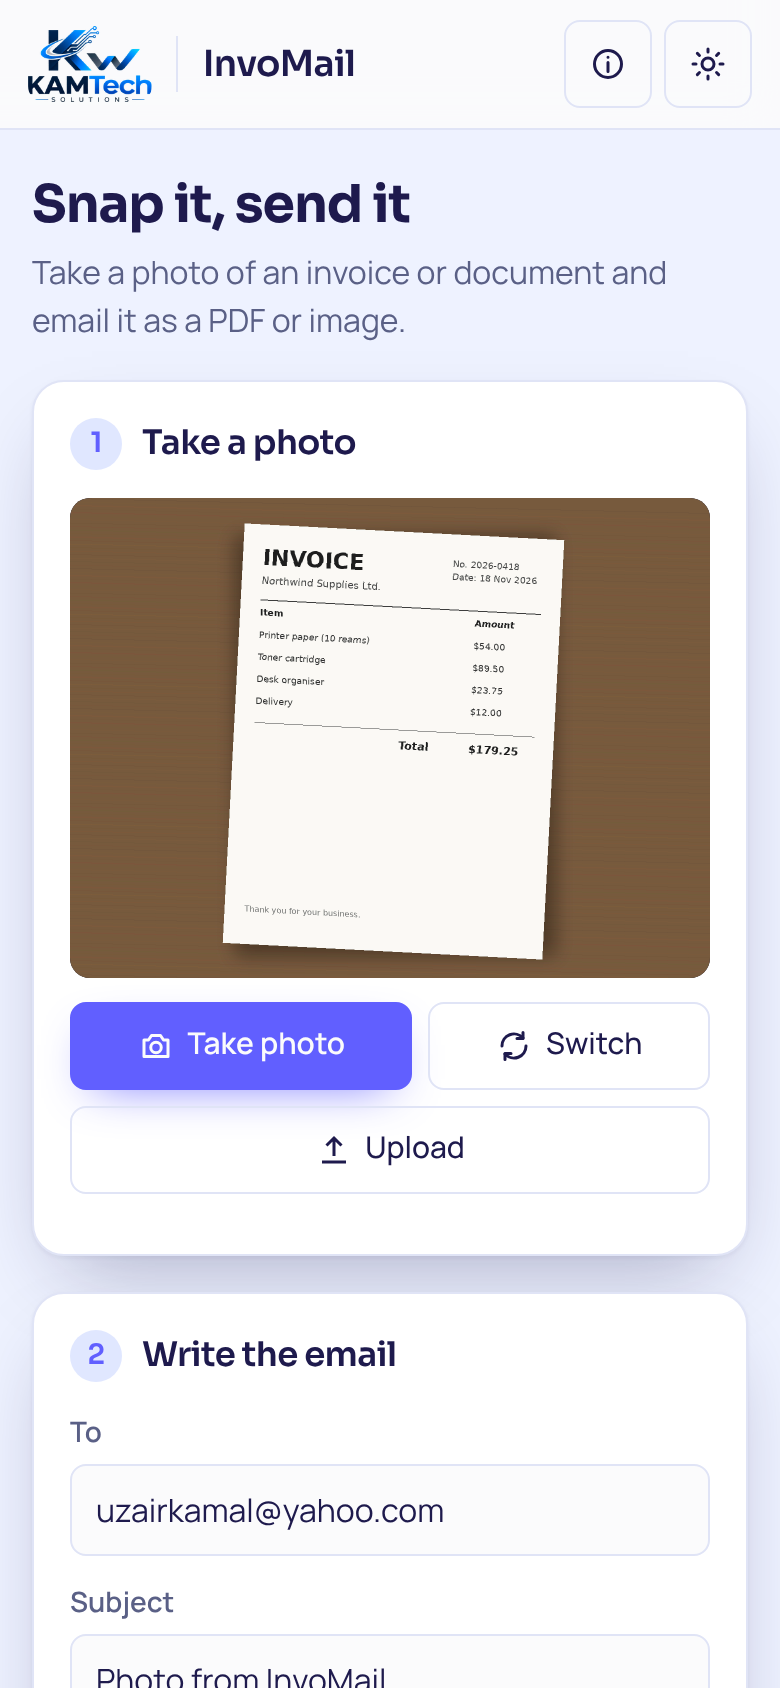
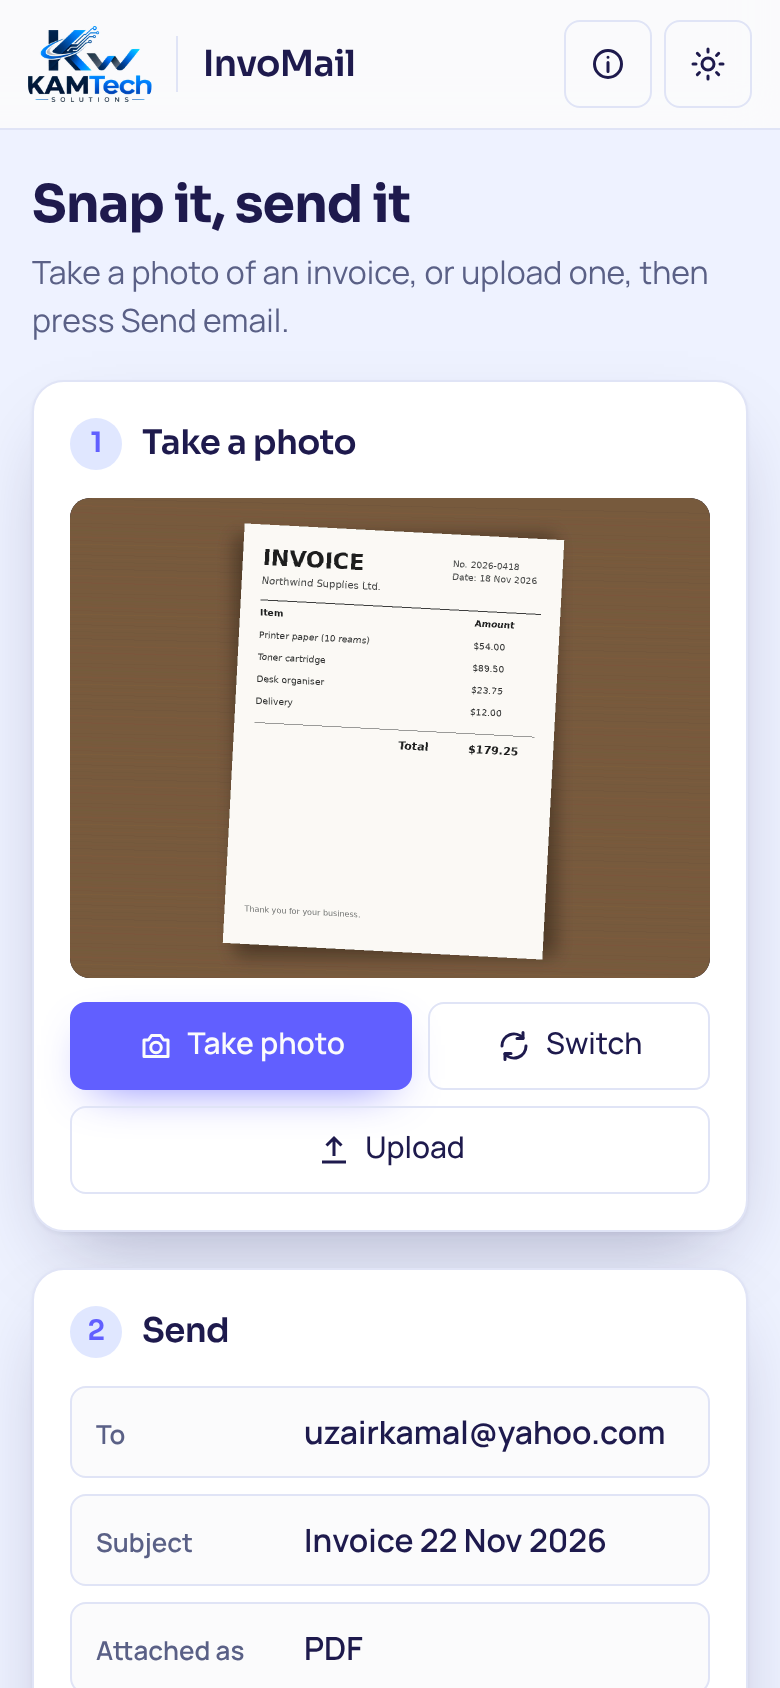
Make it one-button: fixed recipient, subject and message set in .env
The browser now sends only the photos; the server ignores any address,
subject or message from the browser, so it can only email MAIL_TO.

Claude-Session: https://claude.ai/code/session_01HwKgSMYqUkCYpJjwhFP9ij

diff --git a/server.js b/server.js
@@ -7,7 +7,12 @@ const nodemailer = require('nodemailer');
 const PDFDocument = require('pdfkit');
 
 const PORT = Number(process.env.PORT) || 3000;
-const DEFAULT_TO = process.env.DEFAULT_TO || 'uzairkamal@yahoo.com';
+// Everything about the email is fixed here (from .env); the browser only sends the photos.
+const MAIL_TO = (process.env.MAIL_TO || process.env.DEFAULT_TO || 'uzairkamal@yahoo.com').trim();
+const MAIL_SUBJECT = process.env.MAIL_SUBJECT || 'Invoice {date}';
+const MAIL_BODY =
+  process.env.MAIL_BODY || 'Hello,\n\nPlease find the invoice attached.\n\nKind regards';
+const SEND_FORMAT = String(process.env.SEND_FORMAT).toLowerCase() === 'image' ? 'image' : 'pdf';
 // Gmail shortcut: GMAIL_USER + GMAIL_APP_PASSWORD fill in the SMTP settings.
 const GMAIL_USER = (process.env.GMAIL_USER || '').trim();
 const GMAIL_PASS = (process.env.GMAIL_APP_PASSWORD || '').replace(/\s+/g, ''); // Google shows it in groups of 4
@@ -82,6 +87,12 @@ function imagesToPdf(files) {
   });
 }
 
+/** Fill in {date} and {count} in the subject or message. */
+function fill(template, count) {
+  const date = new Date().toLocaleDateString('en-GB', { day: '2-digit', month: 'short', year: 'numeric' });
+  return template.replace(/\\n/g, '\n').replace(/\{date\}/g, date).replace(/\{count\}/g, String(count));
+}
+
 function stamp() {
   return new Date().toISOString().replace(/[:T]/g, '-').slice(0, 19);
 }
@@ -91,30 +102,36 @@ app.use(express.static(path.join(__dirname, 'public')));
 app.use('/vendor/cropperjs', express.static(path.join(__dirname, 'node_modules/cropperjs/dist')));
 
 app.get('/api/config', (_req, res) => {
-  res.json({ defaultTo: DEFAULT_TO, dryRun: DRY_RUN });
+  res.json({
+    to: MAIL_TO,
+    subject: fill(MAIL_SUBJECT, 1),
+    body: fill(MAIL_BODY, 1),
+    format: SEND_FORMAT,
+    dryRun: DRY_RUN,
+  });
 });
 
 app.post('/api/send', upload.array('photos', MAX_PHOTOS), async (req, res) => {
   try {
     const files = req.files || [];
-    const to = String(req.body.to || DEFAULT_TO).trim();
-    const subject = String(req.body.subject || 'Photo from InvoMail').trim().slice(0, 200);
-    const body = String(req.body.body || '').slice(0, 10000);
-    const format = req.body.format === 'image' ? 'image' : 'pdf';
+    // Recipient, subject, message and format come only from the server settings.
+    const to = MAIL_TO;
+    const subject = fill(MAIL_SUBJECT, files.length);
+    const body = fill(MAIL_BODY, files.length);
+    const format = SEND_FORMAT;
 
-    if (!files.length) return res.status(400).json({ error: 'Please take at least one photo.' });
-    if (!EMAIL_RE.test(to)) return res.status(400).json({ error: 'Recipient email address is not valid.' });
+    if (!files.length) return res.status(400).json({ error: 'Please take or upload a photo first.' });
 
     const id = stamp();
     let attachments;
     if (format === 'pdf') {
       attachments = [
-        { filename: `photo-${id}.pdf`, content: await imagesToPdf(files), contentType: 'application/pdf' },
+        { filename: `invoice-${id}.pdf`, content: await imagesToPdf(files), contentType: 'application/pdf' },
       ];
     } else {
       attachments = files.map((f, i) => {
         const ext = f.mimetype === 'image/png' ? 'png' : 'jpg';
-        return { filename: `photo-${id}-${i + 1}.${ext}`, content: f.buffer, contentType: f.mimetype };
+        return { filename: `invoice-${id}-${i + 1}.${ext}`, content: f.buffer, contentType: f.mimetype };
       });
     }
 
@@ -122,7 +139,7 @@ app.post('/api/send', upload.array('photos', MAX_PHOTOS), async (req, res) => {
       from: MAIL_FROM,
       to,
       subject,
-      text: body || 'Please find the attached photo(s).',
+      text: body,
       attachments,
     });
 
@@ -149,8 +166,14 @@ app.use((err, _req, res, _next) => {
   res.status(400).json({ error: err.message || 'Bad request' });
 });
 
+if (!EMAIL_RE.test(MAIL_TO)) {
+  console.error(`MAIL_TO is not a valid email address: "${MAIL_TO}". Fix it in .env.`);
+  process.exit(1);
+}
+
 app.listen(PORT, () => {
   console.log(`InvoMail running at http://localhost:${PORT}`);
+  console.log(`Every email goes to ${MAIL_TO} as ${SEND_FORMAT.toUpperCase()}.`);
   if (DRY_RUN) {
     console.log('TEST MODE: emails are logged, not sent. Set GMAIL_USER and GMAIL_APP_PASSWORD in .env to send for real.');
     return;

diff --git a/public/index.html b/public/index.html
@@ -30,7 +30,7 @@
   <main class="app">
     <div class="intro">
       <h2>Snap it, send it</h2>
-      <p>Take a photo of an invoice or document and email it as a PDF or image.</p>
+      <p>Take a photo of an invoice, or upload one, then press Send email.</p>
     </div>
 
     <section class="card" aria-labelledby="photo-h">
@@ -51,24 +51,17 @@
     </section>
 
     <form id="mailForm" class="card" aria-labelledby="mail-h">
-      <h3 id="mail-h" class="step"><span>2</span> Write the email</h3>
-      <label>To
-        <input id="to" name="to" type="email" required />
-      </label>
-      <label>Subject
-        <input id="subject" name="subject" type="text" value="Photo from InvoMail" maxlength="200" />
-      </label>
-      <label>Message
-        <textarea id="body" name="body" rows="5" placeholder="Write the email body here…"></textarea>
-      </label>
-      <fieldset class="format">
-        <legend>Send as</legend>
-        <div class="seg">
-          <label><input type="radio" name="format" value="pdf" checked /><span>PDF</span></label>
-          <label><input type="radio" name="format" value="image" /><span>Image (JPEG)</span></label>
-        </div>
-      </fieldset>
-      <button id="sendBtn" class="btn main wide" type="submit" disabled><svg width="18" height="18" viewBox="0 0 24 24" fill="none" stroke="currentColor" stroke-width="2" stroke-linejoin="round"><path d="M21 3L10 14M21 3l-7 18-4-7-7-4z"/></svg>Send email</button>
+      <h3 id="mail-h" class="step"><span>2</span> Send</h3>
+      <dl class="summary">
+        <div><dt>To</dt><dd id="sumTo">…</dd></div>
+        <div><dt>Subject</dt><dd id="sumSubject">…</dd></div>
+        <div><dt>Attached as</dt><dd id="sumFormat">…</dd></div>
+      </dl>
+      <details class="preview">
+        <summary>Show message</summary>
+        <pre id="sumBody"></pre>
+      </details>
+      <button id="sendBtn" class="btn main wide big" type="submit" disabled><svg width="20" height="20" viewBox="0 0 24 24" fill="none" stroke="currentColor" stroke-width="2" stroke-linejoin="round"><path d="M21 3L10 14M21 3l-7 18-4-7-7-4z"/></svg>Send email</button>
       <p id="status" class="status" role="status"></p>
     </form>
   </main>
@@ -86,7 +79,7 @@
         <svg width="22" height="22" viewBox="0 0 24 24" fill="none" stroke="currentColor" stroke-width="2" stroke-linecap="round" stroke-linejoin="round" aria-hidden="true"><path d="M12 3l8 3v6c0 4.5-3.4 8.3-8 9-4.6-.7-8-4.5-8-9V6z"/><path d="M8.5 12l2.5 2.5 4.5-5"/></svg>
         <div>
           <h2 id="privacy-h">Your photos</h2>
-          <p>Cropping and editing happen in your browser. When you press Send, the photos go to our server only to build the PDF and send the email. They are not saved on the server afterwards.</p>
+          <p>Cropping and editing happen in your browser. When you press Send, the photos go to the server only to build the PDF and send the email. They are not saved on the server afterwards.</p>
         </div>
       </section>
     </div>

diff --git a/public/styles.css b/public/styles.css
@@ -75,18 +75,14 @@ video{width:100%;height:100%;object-fit:cover;display:block}
 .hint{margin:10px 0 0;font-size:13px;color:var(--mute)}
 
 /* ---------- Form ---------- */
-label{display:block;margin-bottom:12px;font-size:14px;font-weight:600;color:var(--mute)}
-input[type=email],input[type=text],textarea{display:block;width:100%;margin-top:6px;min-height:44px;font-size:16px;font-weight:400;color:var(--ink);background:var(--field);border:1px solid var(--line);border-radius:8px;padding:10px 12px}
-input[type=email]:focus,input[type=text]:focus,textarea:focus{outline:none;border-color:var(--brand);box-shadow:0 0 0 3px var(--brand-soft)}
-textarea{resize:vertical}
-.format{border:0;padding:0;margin:0 0 10px;display:flex;align-items:center;gap:12px;flex-wrap:wrap}
-.format legend{float:left;font-size:14px;font-weight:600;color:var(--mute)}
-.seg{display:flex;gap:4px;background:var(--hover);padding:4px;border-radius:10px}
-.seg label{margin:0;color:var(--ink);font-weight:500;font-size:15px}
-.seg input{position:absolute;opacity:0;pointer-events:none}
-.seg span{display:block;min-height:36px;line-height:36px;padding:0 16px;border-radius:7px;cursor:pointer}
-.seg input:checked+span{background:var(--card);box-shadow:0 1px 3px oklch(.257 .09 281 / .15)}
-.seg input:focus-visible+span{outline:3px solid var(--brand);outline-offset:1px}
+.summary{margin:0 0 10px;display:grid;gap:8px}
+.summary div{display:flex;gap:12px;align-items:baseline;padding:10px 12px;background:var(--field);border:1px solid var(--line);border-radius:8px}
+.summary dt{flex:none;width:92px;font-size:13px;font-weight:600;color:var(--mute)}
+.summary dd{margin:0;font-weight:600;overflow-wrap:anywhere}
+.preview{margin:0 0 12px;font-size:14px}
+.preview summary{cursor:pointer;color:var(--brand);font-weight:600;padding:4px 0}
+.preview pre{margin:6px 0 0;padding:10px 12px;white-space:pre-wrap;font:inherit;color:var(--ink);background:var(--field);border:1px solid var(--line);border-radius:8px}
+.btn.big{min-height:54px;font-size:17px}
 .status{min-height:1.5em;margin:10px 0 0;font-size:15px}
 .status.ok{color:var(--ok);font-weight:600}
 .status.err{color:var(--err);font-weight:600}

diff --git a/public/app.js b/public/app.js
@@ -12,7 +12,6 @@
   const form = document.getElementById('mailForm');
   const sendBtn = document.getElementById('sendBtn');
   const statusEl = document.getElementById('status');
-  const toInput = document.getElementById('to');
   const editHint = document.getElementById('editHint');
 
   // original: photo as taken; blob: what gets sent (edited or original); state: editor settings
@@ -23,7 +22,10 @@
   fetch('/api/config')
     .then((r) => r.json())
     .then((cfg) => {
-      if (!toInput.value) toInput.value = cfg.defaultTo;
+      document.getElementById('sumTo').textContent = cfg.to;
+      document.getElementById('sumSubject').textContent = cfg.subject;
+      document.getElementById('sumFormat').textContent = cfg.format === 'image' ? 'Image (JPEG)' : 'PDF';
+      document.getElementById('sumBody').textContent = cfg.body;
       if (cfg.dryRun) setStatus('Server is in test mode: emails are logged, not actually sent.', '');
     })
     .catch(() => {});
@@ -150,7 +152,7 @@
     e.preventDefault();
     if (!photos.length) return setStatus('Take a photo first.', 'err');
 
-    const data = new FormData(form);
+    const data = new FormData();
     photos.forEach((p, i) => data.append('photos', p.blob, `photo-${i + 1}.jpg`));
 
     sendBtn.disabled = true;
@@ -162,7 +164,7 @@
       setStatus(
         json.dryRun
           ? `Test mode: email to ${json.to} was prepared but not sent.`
-          : `Email sent to ${json.to}.`,
+          : `Sent to ${json.to}. Ready for the next invoice.`,
         'ok'
       );
       photos.forEach((p) => URL.revokeObjectURL(p.url));

diff --git a/README.md b/README.md
@@ -1,18 +1,25 @@
 # InvoMail
 
-A small web app that takes a picture with your camera and emails it as a **PDF** or **image**, with your own message in the email body.
-
-Default recipient: `uzairkamal@yahoo.com` (change it with `DEFAULT_TO` in `.env`, or edit the "To" field in the app).
+A personal one-button app: take a photo of an invoice (or upload one) and press **Send email**. It goes to one fixed address with a pre-written subject and message, attached as a PDF.
 
 ## Features
-- Live camera preview with **Take photo** and **Switch camera** (front/back on phones)
-- **Upload** button: opens the phone camera or picks existing photos (also the fallback when live camera is blocked)
-- Several photos per email (up to 10); remove any before sending
-- **Photo editor** (tap a photo): crop (free, A4, square, or full photo), rotate left/right, flip, brightness and contrast, and B&W or **Document** looks that make paperwork crisp and easy to read. Edits are applied to the original photo, so you can reopen and change them without losing quality. Reset undoes everything.
-- Send as one multi-page **PDF** (one photo per A4 page) or as separate **JPEG** attachments
-- Editable To, Subject and Message
-- Styled with the KamTech Solutions brand, the same as Fill & Sign (pdf.kamtechsolutions.eu): Indigo Edge colours, Sora and Manrope fonts, KamTech logo and icons. Light and dark themes follow your device setting, with a switch in the header.
-- Test mode: if SMTP isn't set up, emails are logged instead of sent
+- Live camera preview with **Take photo** and **Switch** (front/back camera on phones)
+- **Upload** button: opens the phone camera or picks existing photos (also the fallback when the live camera is blocked)
+- Several photos per email (up to 10), sent as one multi-page **PDF** (one photo per A4 page) or as separate JPEGs
+- **Photo editor** (tap a photo, optional): crop (free, A4, square, or full photo), rotate, flip, brightness and contrast, and B&W or **Document** looks that make paperwork crisp. Edits are applied to the original photo, so you can reopen and change them without losing quality.
+- **Fixed recipient, subject and message**, set once in `.env`. The screen shows them but has nothing to type. The server ignores anything else the browser sends, so the app can only ever email that one address.
+- Styled with the KamTech Solutions brand, the same as Fill & Sign (pdf.kamtechsolutions.eu). Light and dark themes follow your device, with a switch in the header.
+- Test mode: if no email account is set up, emails are logged instead of sent
+
+### What gets sent
+Set in `.env` (see `.env.example`):
+
+| Setting | Default | |
+|---|---|---|
+| `MAIL_TO` | `uzairkamal@yahoo.com` | the only address the app sends to |
+| `MAIL_SUBJECT` | `Invoice {date}` | `{date}` becomes e.g. `22 Nov 2026`, `{count}` the number of photos |
+| `MAIL_BODY` | `Hello, … Please find the invoice attached. …` | use `\n` for a new line |
+| `SEND_FORMAT` | `pdf` | or `image` for separate JPEGs |
 
 ## Setup (Gmail)
 
@@ -32,7 +39,6 @@ Edit `.env`:
 ```
 GMAIL_USER=yourname@gmail.com
 GMAIL_APP_PASSWORD=abcd efgh ijkl mnop
-DEFAULT_TO=uzairkamal@yahoo.com
 ```
 Then:
 ```bash
@@ -51,4 +57,4 @@ Browsers only allow the live camera on **HTTPS** or `localhost`. On a phone, eit
 - use the **Upload** button, which opens the phone's camera app even over plain HTTP.
 
 ## API
-`POST /api/send` (multipart/form-data): `photos` (1–10 JPEG/PNG files), `to`, `subject`, `body`, `format` (`pdf` or `image`).
+`POST /api/send` (multipart/form-data): `photos` (1–10 JPEG/PNG files). Recipient, subject, message and format come from `.env` only.
